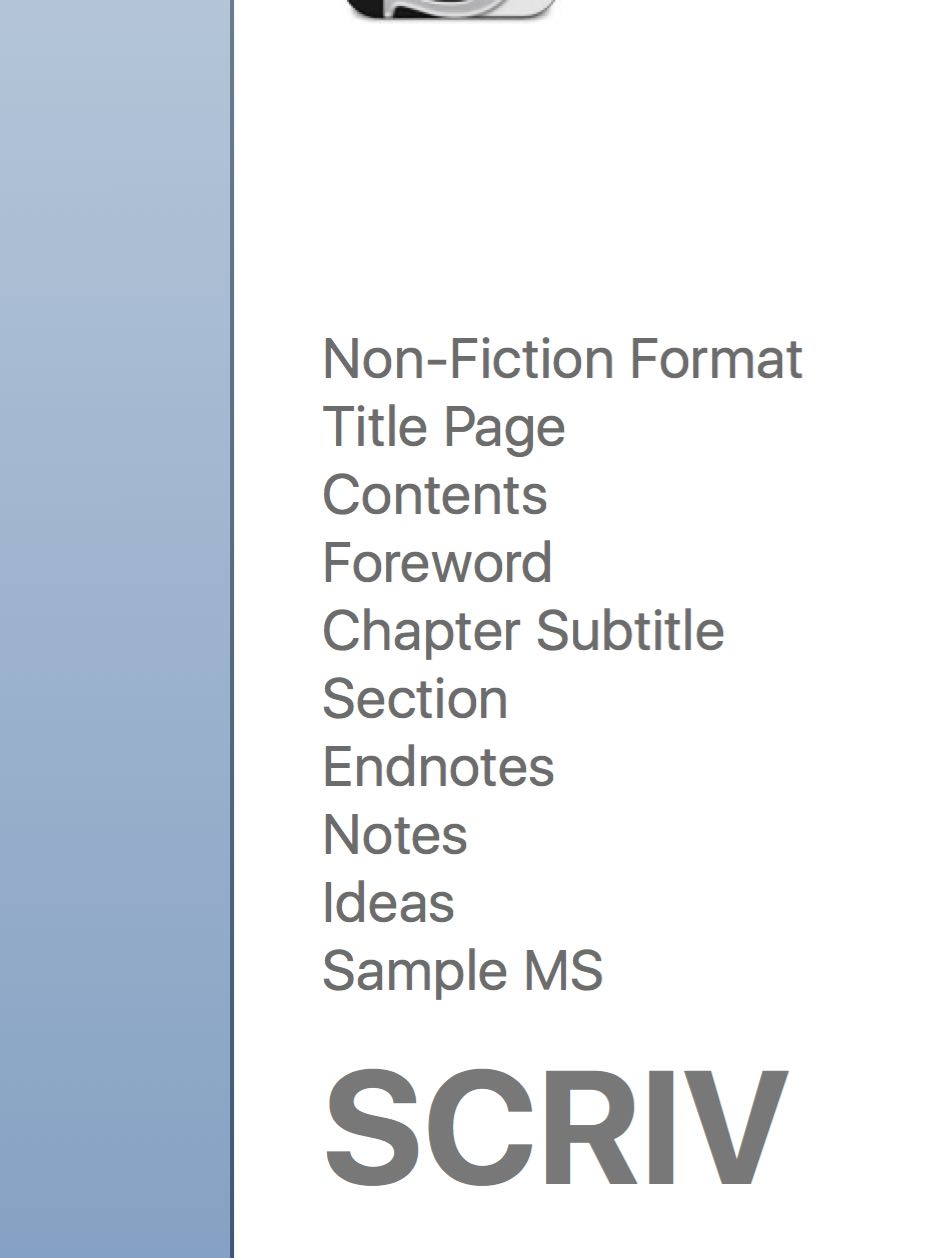
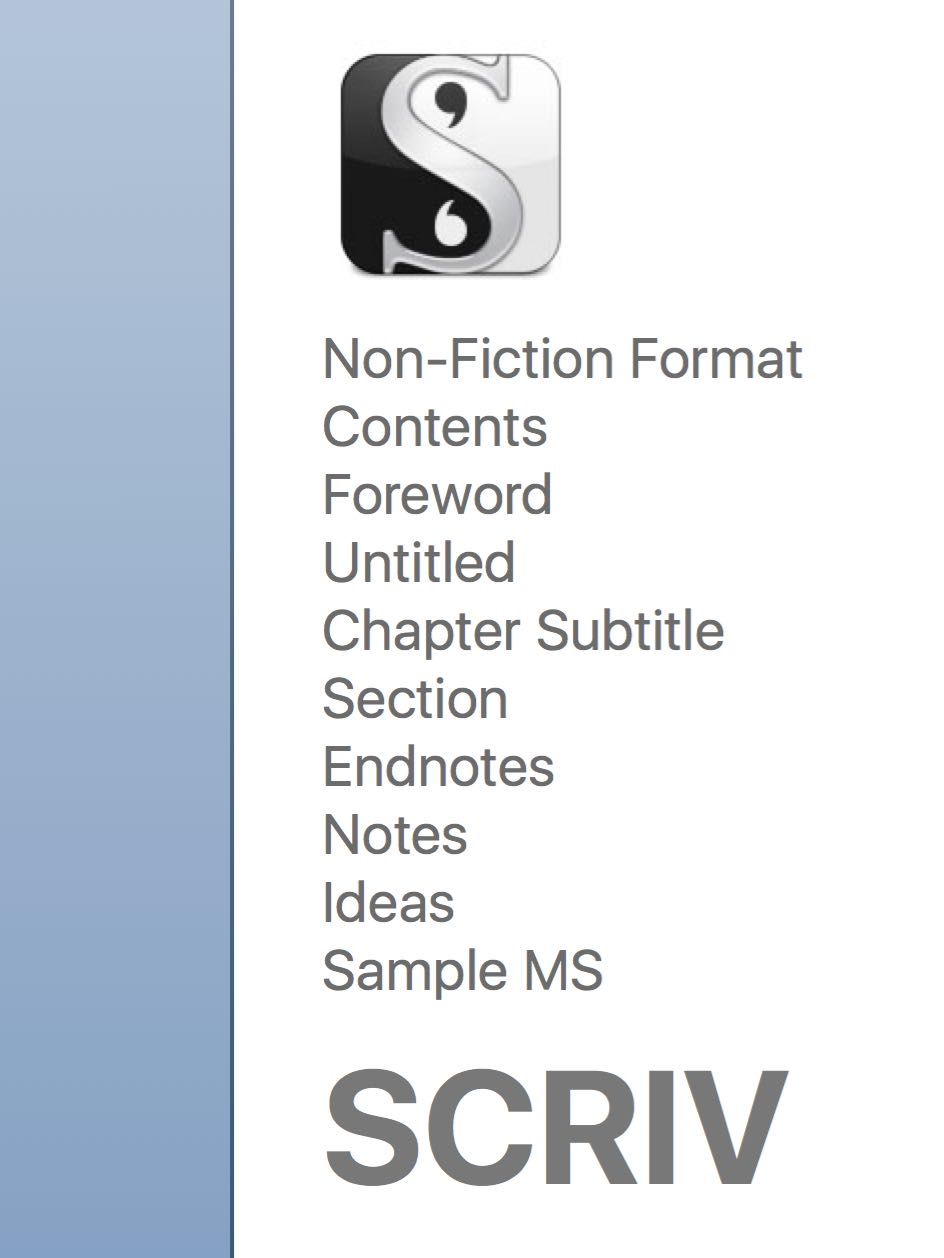
暂时设计不明朗

Changed region(s): [[0.3379, 0.0, 0.6144, 0.248], [0.3379, 0.31, 0.6144, 0.465]]

diff --git a/Money/LiXiaolai/LiXiaolai.scriv/QuickLook/Preview.html b/Money/LiXiaolai/LiXiaolai.scriv/QuickLook/Preview.html
@@ -28,13 +28,16 @@
 
 <ul>
 <li>
-<p class="binderItem"><strong>Title Page</strong><br/>Title page to the manuscript.</p>
-</li>
-<li>
-<p class="binderItem"><strong>Contents</strong></p>
+<p class="binderItem"><strong>Contents</strong><br/>生活当中这些事情太没意思了<br/>
+<br/>
+<br/>
+*定义*</p>
 </li>
 <li>
 <p class="binderItem"><strong>Foreword</strong></p>
+</li>
+<li>
+<p class="binderItem"><strong>Untitled</strong></p>
 </li>
 <li>
 <p class="binderItem"><strong>Chapter Subtitle</strong></p>
